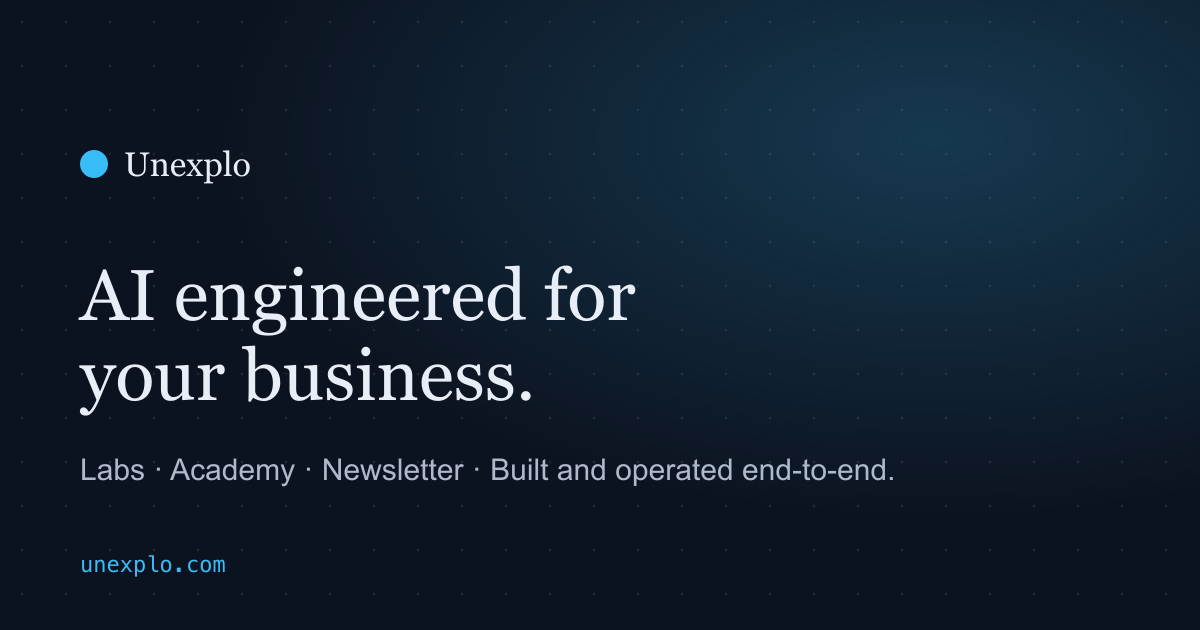
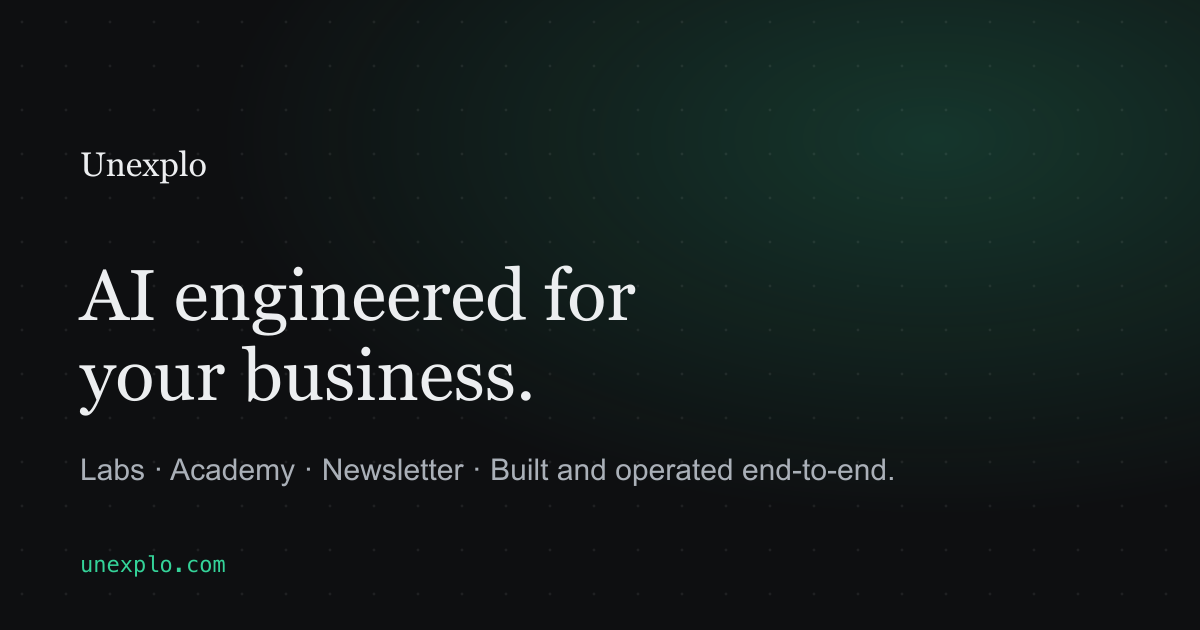
Reskin to 'Charcoal + Emerald' (neutral dark base, emerald accent)
Drop the blue navy/cyan for a neutral near-black base with an emerald
accent. Reassign Scythe's card to rose so the four Labs cards stay
distinct. Update favicon, OG image, and theme-color to match.

Changed region(s): [[0.4317, 0.0, 1.0, 0.573], [0.0617, 0.2413, 0.2158, 0.3016], [0.0617, 0.8746, 0.185, 0.9048]]

diff --git a/src/styles/global.css b/src/styles/global.css
@@ -5,20 +5,22 @@
    Ivory paper, ink text, clay/coral accent. Serif display + clean sans body.
 ---------------------------------------------------------------------------- */
 @theme {
-  /* "Deep frontier" — dark navy-black base, ice-white text, electric cyan accent. */
-  --color-paper: #0c1320;
-  --color-paper-2: #131c2e;
-  --color-ink: #e8eef7;
-  --color-ink-2: #aeb9cc;
-  --color-muted: #6c7a91;
-  --color-line: #e8eef714;
+  /* "Charcoal + Emerald" — neutral near-black base, ice text, emerald accent. */
+  --color-paper: #0e0f11;
+  --color-paper-2: #16181b;
+  --color-ink: #eceef0;
+  --color-ink-2: #aab0b8;
+  --color-muted: #6b7178;
+  --color-line: #eceef014;
 
   /* Accent. Token name kept as `coral` for back-compat with components. */
-  --color-coral: #38bdf8;
-  --color-coral-soft: #7dd3fc;
+  --color-coral: #34d399;
+  --color-coral-soft: #6ee7b7;
+  /* Category accents for the Labs cards (kept distinct from the brand green). */
   --color-indigo: #818cf8;
   --color-emerald: #34d399;
   --color-amber: #fbbf24;
+  --color-rose: #fb7185;
 
   --font-display: "Fraunces", "Iowan Old Style", Georgia, serif;
   --font-sans: "Inter", ui-sans-serif, system-ui, -apple-system, sans-serif;

diff --git a/src/data/projects.ts b/src/data/projects.ts
@@ -41,7 +41,7 @@ export const projects: Project[] = [
       "An AI co-creator for musicians, integrated into the production tools they already use.",
     domain: "Music & creativity",
     status: "Research",
-    accent: "emerald",
+    accent: "rose",
   },
   {
     slug: "steamdoku",